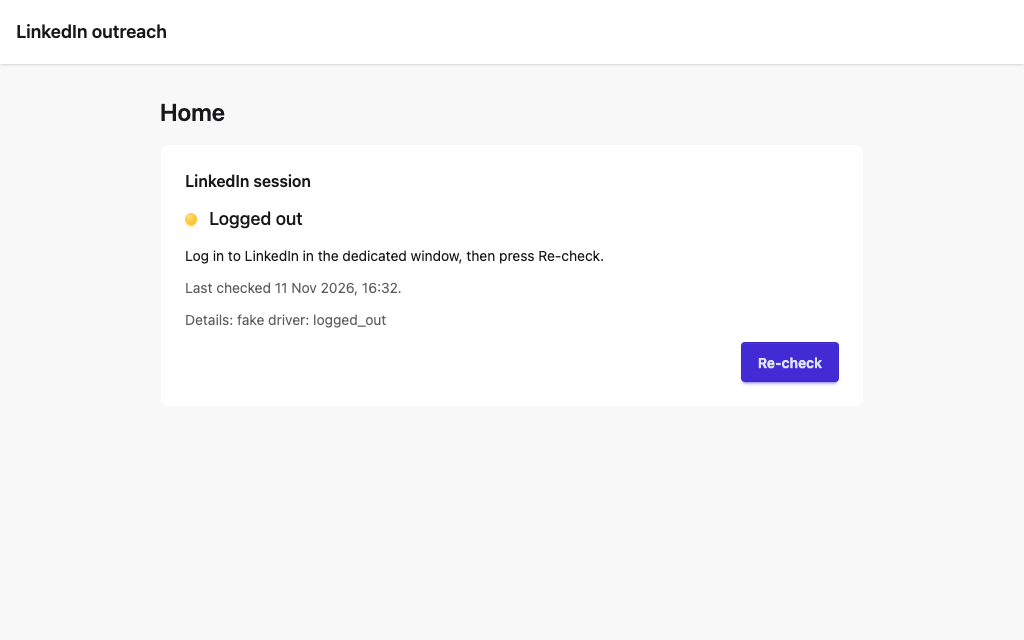
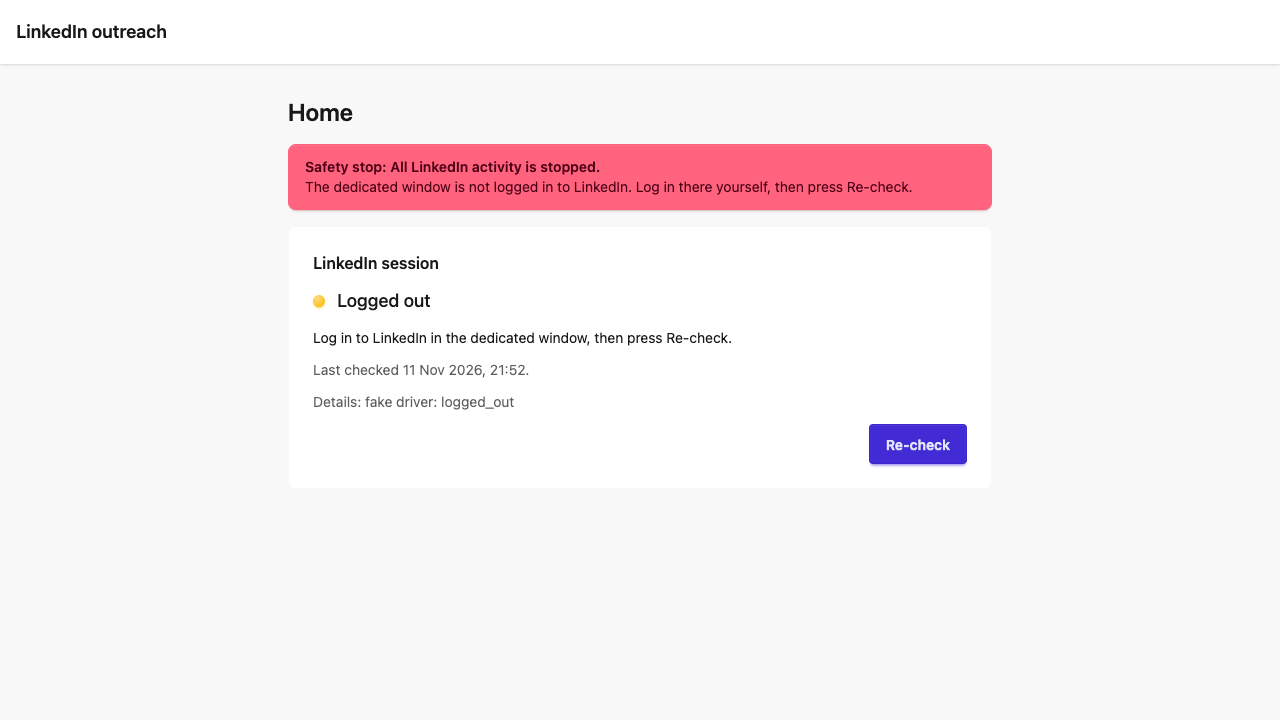
docs: milestone 1 report

Changed region(s): [[0.1562, 0.125, 0.7812, 0.5938], [0.6562, 0.5312, 0.8438, 0.6562], [0.0, 0.0312, 0.1562, 0.0625]]

diff --git a/docs/milestones/M1.md b/docs/milestones/M1.md
@@ -1,0 +1,136 @@
+# Milestone 1 report
+
+2026-11-11. Repository, skeleton, `setup` / `start` / `doctor`, database, dedicated Chrome window, session and health detection, read-only driver, fixtures.
+
+**Status: ready for the gate, with one check not done.** `live:check` passed with the LinkedIn interface in English. It has not been run in Italian, because that needs the account's language setting changed and I have not been told I may change it (question 4 below).
+
+## What was built
+
+| Part | Where | Pull request |
+| --- | --- | --- |
+| Skeleton, `npm run verify`, CI on macOS | `package.json`, `.github/workflows/verify.yml` | #1 |
+| SQLite, migrations, settings, `setup`, `doctor` | `src/db/`, `drizzle/`, `scripts/setup.sh`, `src/doctor/` | #2 |
+| Dedicated Chrome window, profile lock, session classification, pacing, capture tool | `src/linkedin/{browser,session,human,pageHealth}.ts`, `scripts/linkedin-open.ts`, `scripts/live-capture.ts` | #3 |
+| Local server (127.0.0.1, Host and Origin checks), session API, dashboard shell with safety-stop banner | `src/server/`, `src/ui/`, `e2e/` | #4 |
+| Scrubber and leak guard for fixtures | `src/linkedin/scrub.ts`, `src/linkedin/fixtures.test.ts` | #5 |
+| Parsers: search, connections, sent invitations | `src/linkedin/parse/` | #6 |
+| Parser: recommendations (My Network → Grow) | `src/linkedin/parse/recommendations.ts`, `docs/research/recommendations-surface.md` | #7 |
+| Parser: profile | `src/linkedin/parse/profile.ts` | #8 |
+| Parser: thread and conversation list | `src/linkedin/parse/thread.ts` | #9 |
+| Read-only driver, `live:check`, parsers for later page loads | `src/linkedin/driver.ts`, `scripts/live-check.ts`, `docs/research/thread-navigation.md` | #10 |
+
+Decisions are in `docs/decisions.md` (21 entries).
+
+## Checks run
+
+### `npm run verify` (typecheck, lint, unit tests, UI build, dashboard browser test on the fake driver)
+
+```
+ Test Files  23 passed (23)
+      Tests  524 passed (524)
+  2 passed (6.5s)
+```
+
+Run locally on the head of pull request #10. CI ran green on every merge to `main` up to #9. For #10 GitHub Actions had a major outage (githubstatus.com, 2026-11-11 about 21:00 UTC) and the runs stayed queued; see "Not verified".
+
+### `npm run live:check` on the real account, English interface
+
+```
+ok session state=ok
+lang en
+ok searchPeople cards=10 hasNextPage=true capped=false hidden=0
+ok listRecommendations cards=56
+ok viewProfile degree=2 state=can_connect message=true memberId=true experience=5 about=true
+ok listRecentConnections cards=58 dated=58 memberIds=58
+ok listSentInvitations cards=2
+ok readThread kind=unknown isNew=true messages=0 fromUser=0 fromParticipant=0 threadUrl=false
+ok readThread(existing) kind=message messages=6 fromUser=3 fromParticipant=3 threadUrl=false
+results saved in the data directory: live-check/2026-11-11T20-57-58-465Z.json
+live:check: OK
+```
+
+The output holds counts only. The parsed people are in the data directory. A readable sample for the gate is at `~/Library/Application Support/linkedin-outreach/live-check/sample-2026-11-11.md` (not in the repository).
+
+This is the run on the final code of pull request #10, after the review fixes. `--thread-member` adds the `readThread(existing)` line: a connection you have already exchanged messages with.
+
+### Session survives an app restart
+
+`NO_OPEN=1 npm start` twice in a row on the live driver, 30 s apart, no login in between:
+
+```
+LinkedIn outreach is running at http://localhost:4747 (LinkedIn driver: live). Press Ctrl+C to stop.
+dedicated window: Google Chrome, profile …/linkedin-outreach/chrome-profile
+LinkedIn session: ok
+```
+
+Same three lines on both runs. The login also survived more than ten separate window launches during the day.
+
+### `npm run doctor`
+
+```
+[ok]      node: v22.23.2
+[ok]      chrome: 157.0.8103.51 at /Applications/Google Chrome.app
+[ok]      data directory: … (mode 700, all sub-directories mode 700)
+[ok]      database: …/app.db, integrity ok, migrations applied 1 of 1
+[ok]      session: status ok, last check 2026-11-11T20:46:08.664Z, last error none
+[ok]      recent errors: none in event_log
+[info]    service: auto-start: not installed (arrives in milestone 4)
+[info]    log tail: no log files
+doctor: OK
+```
+
+### Independent review
+
+`code-review` ran on everything since the first commit, with two reviewers that did not write the code (standards, spec). Fixed from it: `live:check` rejected valid threads; search cap now throws `SearchCapped`; an unrecognised page ends `live:check`; a logged-out window shows the banner; the data directory is created with mode 700 whichever command runs first; `listConversations` removed (not asked for, and loading the inbox opens the newest conversation). Left open: see "Known gaps".
+
+## Screenshots
+
+Dashboard shell on the fake driver:
+
+![Connected](img/m1-home-ok.png)
+![Logged out](img/m1-home-logged_out.png)
+![Checkpoint](img/m1-home-checkpoint.png)
+
+## What the real account taught us
+
+1. **LinkedIn writes `data-view-name` only into the first page a browser session loads.** Every later load has none. Parsers built on first-load captures failed on the second navigation of `live:check`. They now use hooks present in both variants, and there are fixtures for both. A fixtures-first build would have shipped parsers that work once per launch.
+2. **The login page and the signed-in messaging page both embed an invisible reCAPTCHA.** Both were first classified as a checkpoint. Neither was one; the classifier order was fixed with regression tests. No real checkpoint, CAPTCHA or warning appeared at any point.
+3. **A conversation can be opened by URL** (`/messaging/compose/?recipient=<member id>`), with no click. For a connection it shows the earlier messages or an empty new-message pane; for a non-connection it shows a new InMail form, which the parser refuses. The member id is a second identifier (`ACoA…`), different from the `/in/<id>` in profile URLs. It comes from Message links.
+4. **Recommendations**: My Network → Grow shows grouped people ("People you may know from …", "People in the … industry"), 56 to 80 cards per load. A card has name, headline and a Connect button. It has no location, company or degree.
+5. **The 2026 frontend uses hashed class names** on every page except messaging. Selectors use `data-sdui-screen`, `componentkey`, `data-testid`, roles and link patterns.
+
+## Things you should know
+
+- **Chrome was not installed through `setup` the first time.** `brew install --cask google-chrome` exited 0 without installing (a stale record of an old version). I ran `brew install --cask --force google-chrome` by hand, then added that fallback to `setup.sh`. The fallback itself has not been exercised on a machine without Chrome.
+- **Two early merges were out of order.** #1 was merged before I had checked for a review bot. #3 was merged before CI had run on its last merge commit (CI was green afterwards). Since then every merge waited for a green CI run.
+- **No review bot is installed.** Each pull request was reviewed by the lead session plus CI; `code-review` ran before this gate.
+- **Loading the inbox opens the newest conversation.** One capture of `/messaging/` on 2026-11-11 opened your newest InMail and may have marked it read. Three conversations were opened by `readThread` checks (two connections, one earlier InMail contact); assume those are marked read too.
+- **About 55 LinkedIn page loads today**, all read-only, 20–40 s apart. The only clicks were by the investigation worker, which opened the Message overlay on two profiles to see how a conversation opens; it typed nothing.
+- **Your company page name was in one committed fixture** on the branch of #10 (`two-way-en.html`, the "Page inboxes" box). It is scrubbed now and the fixture script checks for it. The earlier commit stays in the branch history until #10 is squash-merged and the branch deleted. The repository is private.
+- **The build session was interrupted several times** by server restarts. Three workers were lost mid-slice; I finished the driver myself instead of delegating it a fourth time. Parser and fixture work stayed with workers.
+
+## Not verified
+
+- **Italian interface.** Every Italian string is marked `// unverified` (53 of them). Nothing was run with the interface in Italian.
+- **CI on pull request #10.** Queued during the GitHub Actions outage. #10 is not merged; I will merge it when CI is green.
+- Pages never seen on the real account, covered only by hand-written fixtures: a real checkpoint, a real restriction notice, the monthly search-limit notice, a pending invitation on a profile or search row on a later page load, an empty search, a conversation where only you have written.
+- `connect_in_more` versus `follow_only` on a profile: the More menu is empty until clicked. The invite step in milestone 4 has to open it.
+- What "Show all" opens on the Grow page.
+- Conversations longer than the latest batch of messages: older ones are not read.
+
+## Known gaps, planned for milestone 2
+
+- **A safety stop does not persist.** The driver latches inside one process, and the stored session state is overwritten by the next `ok` check. The spec wants a stop that stays until you resume it. This belongs with the engine's safety stop.
+- **The `people` table has no member id column** and no lifetime-suppression record. Both are needed before any action is planned.
+- **Selectors are not all in the `selectors.*.ts` files** (decision 8); a handful are inline in parsers. Some helpers are duplicated across parsers. Clean-up slice at the start of milestone 2.
+- `doctor` shows no log tail because nothing writes log files yet.
+- `setup` requires Google Chrome and does not install Playwright's Chromium as a fallback (disk space).
+
+## Questions for the gate
+
+1. **Recommendations surface.** Use My Network → Grow as it is (grouped cards, name and headline only, about 56–80 per load), and open each profile for location, company and degree before scoring? Or do you want a different page?
+2. **Parsed prospects.** Does the sample file look right: names, headlines, locations, degrees, the profile's current role?
+3. **Merging.** May agents keep merging their own pull requests in this repository once CI and review are clean?
+4. **Interface language.** Your LinkedIn is in English. The handoff says "Italian first". Will you switch it to Italian for one `live:check` run, or may I change the setting and switch it back?
+5. **daisyUI instead of shadcn/ui.** Confirm or change.
+6. **Review bot.** Install Pullfrog on this repository, or keep lead review plus `code-review` / `council` at gates?
